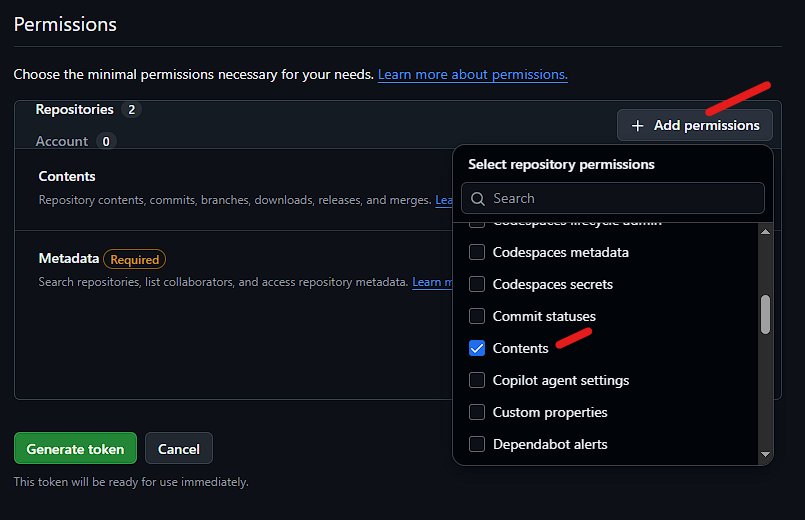
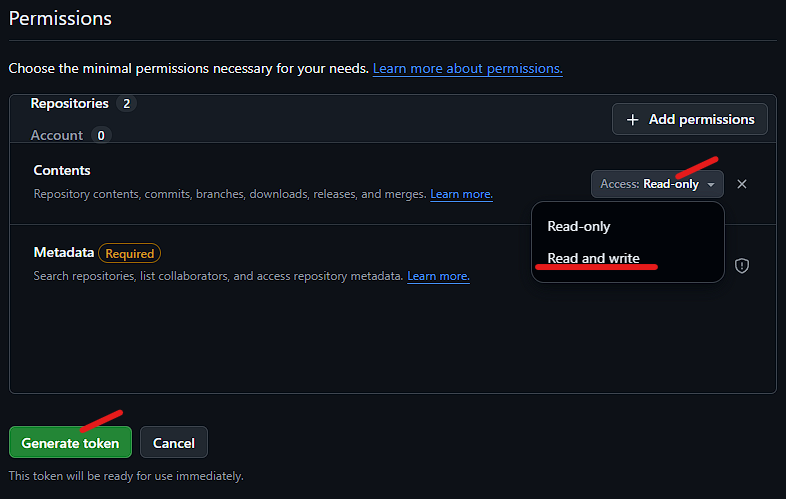
update optimizing_profile_5.md file

diff --git a/optimizing_profile_5.md b/optimizing_profile_5.md
@@ -60,9 +60,9 @@ adm-docs/
   evaluations/     # casos de avaliação e resultados
 ```
 
-#### 3.1 Criando o Workspace
+### 4 Criando o Workspace
 
-##### 3.1.1 Visão Geral do Terminal Backend
+#### 4.1 Visão Geral do Terminal Backend
 ([link_doc](https://hermes-agent.nousresearch.com/docs/user-guide/configuration#terminal-backend-configuration))
 
 *Terminal Backend Configuration* apresenta os backends disponíveis para definir onde os comandos de shell do agente realmente são executados. A tabela oficial lista **seis backends nativos** (*local, docker, ssh, modal, daytona, vercel_sandbox*) e a seção **Singularity/Apptainer** como backend de plugin (oficial), totalizando **sete abordagens** distintas. Segue a descrição prática de quando usar cada uma.
@@ -117,7 +117,7 @@ Pelo Dashboard acesse:
 **Onde roda:** contêiner Singularity/Apptainer com `--containall --no-home`.
 **Quando usar:** clusters HPC e máquinas compartilhadas onde Docker **não está disponível**. É um plugin oficial (instale com `hermes plugins install singularity`) e requer `apptainer` ou `singularity` no `$PATH`. Usa diretório scratch típico de HPC (`/scratch/$USER/...`) e converte imagens `docker://` para SIF em cache.
 
-##### 3.1.2 Regra prática de escolha
+#### 4.2 Regra prática de escolha
 | Objetivo | Terminal Backend |
 |---|---|
 | Confiança total / simplicidade | `local` |
@@ -133,7 +133,7 @@ Pelo Dashboard acesse:
 
 **Obs.**: Para uma configuração inicial, vamos iniciar pela *opção 1* com execução *"Local"* e depois migramos para a opção 2 que seria em um ambiente controlado por docker.
 
-##### 3.1.3 Apontamento do Diretorio para nosso Workspace
+#### 4.3 Apontamento do Diretorio para nosso Workspace
 Podemos executar via CLI ou configurar via dashboard
 por CLI:
 
@@ -150,7 +150,7 @@ por dashboard:
 
 <br>
 
-#### 3.2 Versionamento de Documentos
+### 5. Versionamento de Documentos
 Para esta etapa é extremamente importante mantermos e definirmos um fluxo de versão e revisão para cada documento que deve ser registrar:
 
  - autor/revisor,
@@ -179,8 +179,9 @@ E para garantir este fluxo vamos adotar o seguinte critério inicial:
 1. Criar uma *Skill* com os critério de controle dos documentos. A Skill orienta o agente sobre a convenção e os metadados.
 2. Criar um diretório para as versões anteriores
 2. Para o controle do vercionamento vamos utilizar um *repositório no GitHub*, mas exigindo aprovação antes de publicar, substituir a versão vigente ou mudar o estado para “aprovado” antes do "pull request".
+<br>
 
-##### 3.2.1 Recurso exigido
+#### 5.1 Recurso exigido
 Temos que verificar se já temos instalado em nosso sistema o *git* e o *GitHub CLI*
 
 ```bash
@@ -194,7 +195,9 @@ gh --version    # verifica a existência do gh cli
 > [!WARNING]
 > Se o Hermes esta rodando em um conteiner docker a instalação do GitHub CLI deve ser feito por outro caminho.
 
-##### 3.2.2 Instando GitHub CLI para o Hermes dentro do conteiner
+<br>
+
+#### 5.2 Instando GitHub CLI para o Hermes dentro do conteiner
 
 O cenário que temos é (**VM Ubuntu → Dokploy → contêiner Hermes**), para instalarmos o GitHub CLI dentro do contêiner Hermes podemos fazer de duas formas:
 
@@ -205,8 +208,9 @@ O cenário que temos é (**VM Ubuntu → Dokploy → contêiner Hermes**), para 
 *Qual escolher?*
 Na opção 1 basicamente é recriar a imagem com uma alteração, mas de forma manual e portanto teremos o inconveniente de termos que recriar esta imagem todas as vezes que for necessário a atualização ou um novo redeploy da aplicação.
 Agora para deixarmos de forma automática, podemos incluir a instrução **build:** no arquivo docker-compose. Portanto vamos escolher a opção 2.
+<br>
 
-**Passo 1: Escrever o Dockerfile**
+##### **Passo 1: Escrever o Dockerfile**
 Crie um arquivo`Dockerfile` sem extenção :
 - O método de instalação do gh acima segue o procedimento padrão do repositório oficial do GitHub CLI para **Ubuntu/Debian**, e também há precedentes na base de código do próprio Hermes de instalação do gh na camada apt da imagem base.
 - Conteúdo do Dockerfile (baseado na documentação oficial do GitHub CLI )
@@ -232,15 +236,18 @@ RUN apt-get update && \
 
 USER hermes
 ```
+<br>
 
-**Passo 2: Preparar os arquivos no repositório Git**
+##### **Passo 2: Preparar os arquivos no repositório Git**
 Vamos criar um repositório, caso ainda não tenha, para que o Dokploy utilize para fazer a leitura dos arquivos. Vamos precisar ter dois arquivos na raiz do repo (ou no caminho que você define como Compose Path):
 
 > **Dockerfile**: O arquivo que instala o gh.
 >
 > **docker-compose.yml**: O arquivo que orquestra o serviço.
 
-**Passo 3: Configurar o docker-compose.yml no Dokploy**
+<br>
+
+##### **Passo 3: Configurar o docker-compose.yml no Dokploy**
 Aqui está o ponto crucial. O Dokploy limpa o diretório do repositório a cada deploy (AutoDeploy). Isso significa que você não pode usar bind mounts com caminhos relativos do repositório (ex: ./config:/opt/data) para dados persistentes, pois eles serão perdidos.
 Vamos alterar o no arquivo dentro do Dokploy, e o docker-compose.yml deve iniciar assim:
 
@@ -263,7 +270,7 @@ services:
   hermes:
     build:
       context: .
-      dockerfile: Dockerfile
+      dockerfile: hermes-gh.Dockerfile
     restart: unless-stopped
     command: gateway run
     ports:
@@ -281,9 +288,11 @@ O que mudou e por quê:
 - apontamento do Token do GitHub para variável de ambiente.
 
 > [!WARNING]
-> Para o apontamento da **variável de ambiente** para o **GT_TOKEN**, registramos na opção **Enviroment** dentro do aplicativo no Dokploy:
+> Para o apontamento da **variável de ambiente** para o **GH_TOKEN**, registramos na opção **Enviroment** dentro do aplicativo no Dokploy:
 
-**Passo 4: Configurar o apontamento dos arquivos no Dokploy**
+<br>
+
+##### **Passo 4: Configurar o apontamento dos arquivos no Dokploy**
 > tutorial de referência [video](https://www.youtube.com/watch?v=j9r2mdzBZcQ)
 
 Ainda dentro da aplicação e na seção **Geral** vamos fornecer o **Provider** para o Compose File, neste caso vamos optar por **GitHub**
@@ -313,88 +322,74 @@ Retornamos para o Dokploy e agora podemos ver que temos a conecção e uma **Act
   <img width="270" title="gh9" src="./img/gh9.png"/>
 </div>
 
-Agora vamos retornar para o nosso projeto em "Projct" no menu do lado esquerdo, clique no projeto e entre no serviço do aplicativo, role até a área do "Provider", selecione novamente a opão GitHub e poderemos notar que agora temos um **GitHub Account**, vamos prencher os campos. Para o "Compose Path", coloque o caminho onde esta os arquivos docker-compose dentro do repo, no meu caso eu criei uma pasta "docker". Finalize **Salvando o Provider**.
+Agora vamos retornar para o nosso projeto em "Project" no menu do lado esquerdo, clique no projeto e entre no serviço do aplicativo, role até a área do "Provider", selecione novamente a opão GitHub e poderemos notar que agora temos um **GitHub Account**, vamos prencher os campos. Para o "Compose Path", coloque o caminho onde esta os arquivos docker-compose dentro do repo, no meu caso eu criei uma pasta "docker". Finalize **Salvando o Provider**.
 <div align="left"> <img width="600" title="gh10" src="./img/gh10.png"/> </div><br>
 
 > [!NOTE]
 > A configuração explicada até este ponto, foi para disponibilizar acesso ao Dokploy a um repositório específico no GitHub para fazer a clonagem dos arquivos do docker-compose file.
 
-**Passo 5: Permissão de Gerenciamento do Versionamento e Fazer o Deploy**
+<br>
+
+##### **Passo 5: Permissão de Gerenciamento do Versionamento e Fazer o Deploy**
 Para darmos acesso ao nosso agente para gerenciar o sistema de versionamento montado no GitHub, vamos precisar autenticar (permitir) que o GitHub CLI tenha acesso ao GitHub pelo agente para executar comandos de versionamento. Como nosso ambiente é headless (sem navegador ou seja um servidor), a forma mais recomendada é usar um **Personal Access Token (PAT)** através da variável de ambiente GH_TOKEN inserido no "**Enviroment**" do Dokploy.
 Para este projeto estarei criando um novo repositório privado, por se tratar de documentação versionada de acesso restrito ao projeto.
 
-**Criando GitHub App**
+**Gerando Token de acesso ao GitHub**
 1. Faça login na sua conta do GitHub
 2. Clique na sua foto do perfil no canto superior direito da página e selecione "**Settings**" (Configurações) no menu suspenso.
-3. Na barra lateral esquerda, clique em "**Developer settings**" (Configurações de desenvolvedor) e, em seguida, clique em **New GitHub App**
-4. Preencher os campos:
-    1. GitHub App name
-    2. Homepage URL: fornecer a URL de acesso a API do Hermes, por padrão esta na **porta 8642**, portanto fica `https://<URL_Servidor>:8642`
-    3. Redirect URI: fornecer uma URL de 
+3. Na barra lateral esquerda, clique em "**Developer settings**" (Configurações de desenvolvedor)
+4. Expanda Personal access tokens → clique em Fine-grained tokens.
+5. Clique em Generate new token.
+    <div align="left"> <img width="600" title="gh11" src="./img/gh11.png"/> </div><br>
+6. Preencha e selecione conforme abaixo:
+    * **Token name**: Insira um nome descritivo, por exemplo hermes-agent-docs-repo.
+    * **Expiration**: Selecione um período de validade razoável (por exemplo, 90 dias). O GitHub não recomenda definir como permanente; a política da organização pode até bloquear tokens permanentes .
+    * **Resource owner**: Selecione o proprietário do repositório privado de destino (sua conta pessoal ou a organização correspondente).
+    * **Repository access**: Selecione Only select repositories e, na lista suspensa, marque apenas aquele repositório privado de documentos que o agente precisa acessar. Não selecione "All repositories".
+        <div align="left"> <img width="600" title="gh12" src="./img/gh12.png"/> </div><br>
+    * **Permissions**: Expanda Repository permissions, encontre Contents e defina como Read and write (o agente precisa fazer commit de alterações no repositório de documentos) . Se você não tiver certeza sobre outras permissões, não conceda; a abordagem de permissões mínimas é a mais segura.
+        <div align="left">
+          <img width="600" title="gh13" src="./img/gh13.png" style="margin-right: 50px;"/>
+          <img width="600" title="gh14" src="./img/gh14.png"/>
+        </div><br>
 
+**Injetando o Token no Conteriner Hermes**
+Não é preciso fazer login interativo com gh auth login dentro do contêiner. A documentação oficial do GitHub CLI afirma claramente que, para uso em automação/headless, recomenda-se usar diretamente a variável de ambiente GH_TOKEN.
 
+1. No painel do Dokploy, entre na aplicação do tipo Docker Compose do Hermes.
+2. Encontre a seção Environment.
+3. Adicione uma variável de ambiente:
+    `GH_TOKEN=Cole o token que você acabou de copiar`
+    <div align="left"> <img width="600" title="gh15" src="./img/gh15.png"/> </div><br>
+4. Salve e faça Deploy do serviço. Após a reinicialização do contêiner, o processo gh lerá automaticamente o GH_TOKEN do ambiente para completar a autenticação.
+<br>
 
-
-Para gerar um token de acesso no GitHub, siga os seguintes passos:
-> tutorial de referência [video](https://youtu.be/rbXukLLzQcQ?si=c-TaT1uK4VNM4dW2)
-
-2. Clique na sua foto do perfil no canto superior direito da página e selecione "Settings" (Configurações) no menu suspenso.
-3. Na barra lateral esquerda, clique em "Developer settings" (Configurações de desenvolvedor) e, em seguida, selecione "Personal access tokens" (Tokens de acesso pessoais).
-<div align="left"> <img width="600" title="gh11" src="./img/gh11.png"/> </div><br>
-
-4. Clique no botão "Generate new token" (Gerar novo token).
-5. Dê um nome descritivo ao token no campo "Note" (Nota).
-6. Selecione as permissões necessárias para o token na seção "Select scopes" (Selecionar escopos). As permissões determinam quais ações podem ser realizadas com o token.
-7. Clique no botão "Generate token" (Gerar token) na parte inferior da página.
-8. O token de acesso será gerado e exibido na tela. Copie o token e guarde-o em um local seguro. Lembre-se de que, por motivos de segurança, o token só é exibido uma vez e não pode ser recuperado posteriormente.
-9. Use o token em suas aplicações ou scripts como uma forma de autenticação com a API do GitHub. O token deve ser enviado em uma solicitação HTTP no cabeçalho Authorization com o valor Bearer, seguido do token. Por exemplo:
-
-
-
-Clique em Deploy. O Dokploy vai fazer o git clone do repositório, encontrar o Dockerfile, construir a imagem com o gh e iniciar o contêiner.
-
-
-No painel do Dokploy, vá em Environment.
-
-Adicione uma variável GH_TOKEN com o valor do seu token (gerado no GitHub com escopos repo, read:org, gist).
-
-No seu docker-compose.yml, descomente a linha GH_TOKEN: ${GH_TOKEN} na seção environment.
-
-Faça o redeploy.
-
-O gh reconhece automaticamente a variável GH_TOKEN e a utilizará para autenticação, sem precisar de login interativo .
-
-
-
-
-
-
-
-
-
-
----
----
-
-**Passo 4: Autenticar o GitHub**
-Após a instalação, você precisa fazer login no GitHub para que o gh funcione. A documentação oficial do GitHub recomenda executar:
-
-```bash
-gh auth login
-```
-Agora é só siga as instruções interativas se estiver em um ambiente grafico.
-Se for um ambiente de servidor sem interface, podemos escolher o **método de autenticação com Token** (ou seja, configurar a variável de ambiente GH_TOKEN ou GITHUB_TOKEN), evitando a complexidade do fluxo interativo.
-Dois pontos importantes em relação como fazer o apontamento da variável de ambiente GH_TOKEN:
-- Podemos usar o backend Docker do próprio Hermes, e neste caso, pode encaminhar GITHUB_TOKEN para o contêiner através de docker_forward_env.
-- Mas e estamos utilizando a imagem derivada, pode configurar diretamente a variável de ambiente GH_TOKEN no proprio Dokploy, e o gh dentro do contêiner a lerá automaticamente, sem necessidade de login interativo, sendo mais efetivo.
-
-**Passo 5: Verificação**
-Independentemente da solução escolhida, após a conclusão, execute dentro do contêiner Hermes:
-
+##### **Passo 6: Verificar a Autenticação**
+1. Entre no contêiner Hermes (via terminal do Dokploy ou `docker exec -it <nome_do_contêiner> /bin/bash`) e execute:
 ```bash
 gh auth status
 ```
-Se ambos os comandos retornarem resultados normais, a instalação e a autenticação estarão concluídas.
+Saída esperada:
+```bash
+github.com
+  ✓ Logged in to github.com account Cpharles (GH_TOKEN)
+  - Active account: true
+  - Git operations protocol: https
+  - Token: github_pat_************************************
+```
+
+2. A saída esperada mostrará que a autenticação foi bem-sucedida e indicará o escopo do token. Em seguida, você pode verificar o acesso ao repositório privado com:
+```bash
+gh repo view <proprietário>/<nome_do_repositório_privado>
+```
+Saída esperada:
+```bash
+Cpharles/<nome_do_repositório_privado>
+Controle e gestão de documentos.... 
+
+View this repository on GitHub: https://github.com/Cpharles/<nome_do_repositório_privado>
+```
+Se as informações do repositório forem exibidas normalmente, o gh está pronto para operar o repositório de documentos.
 
 > [!NOTE]
 > **Dúvidas**
@@ -405,7 +400,7 @@ Por que não perdemos que já fizamos com a reconstrução de uma imagem derivad
  Reconstruir a imagem derivada não causará perda dos dados do agente. A chave está em: os dados de estado do Hermes (configuração, memórias, sessões, habilidades, etc.) não são armazenados na camada da imagem, mas sim no volume persistente /opt/data (linux). A reconstrução da imagem só substitui a árvore de código em /opt/hermes; o volume de dados é preservado durante a recriação do contêiner.
  A imagem em si é somente leitura e imutável (/opt/hermes pertence ao root, e o usuário de execução não pode modificá-la). A reconstrução da imagem derivada só altera a camada do sistema onde o gh está instalado; não afeta o /opt/data.
 
-<br>
+---
 
 ## Visão geral das próximas etapas
 
